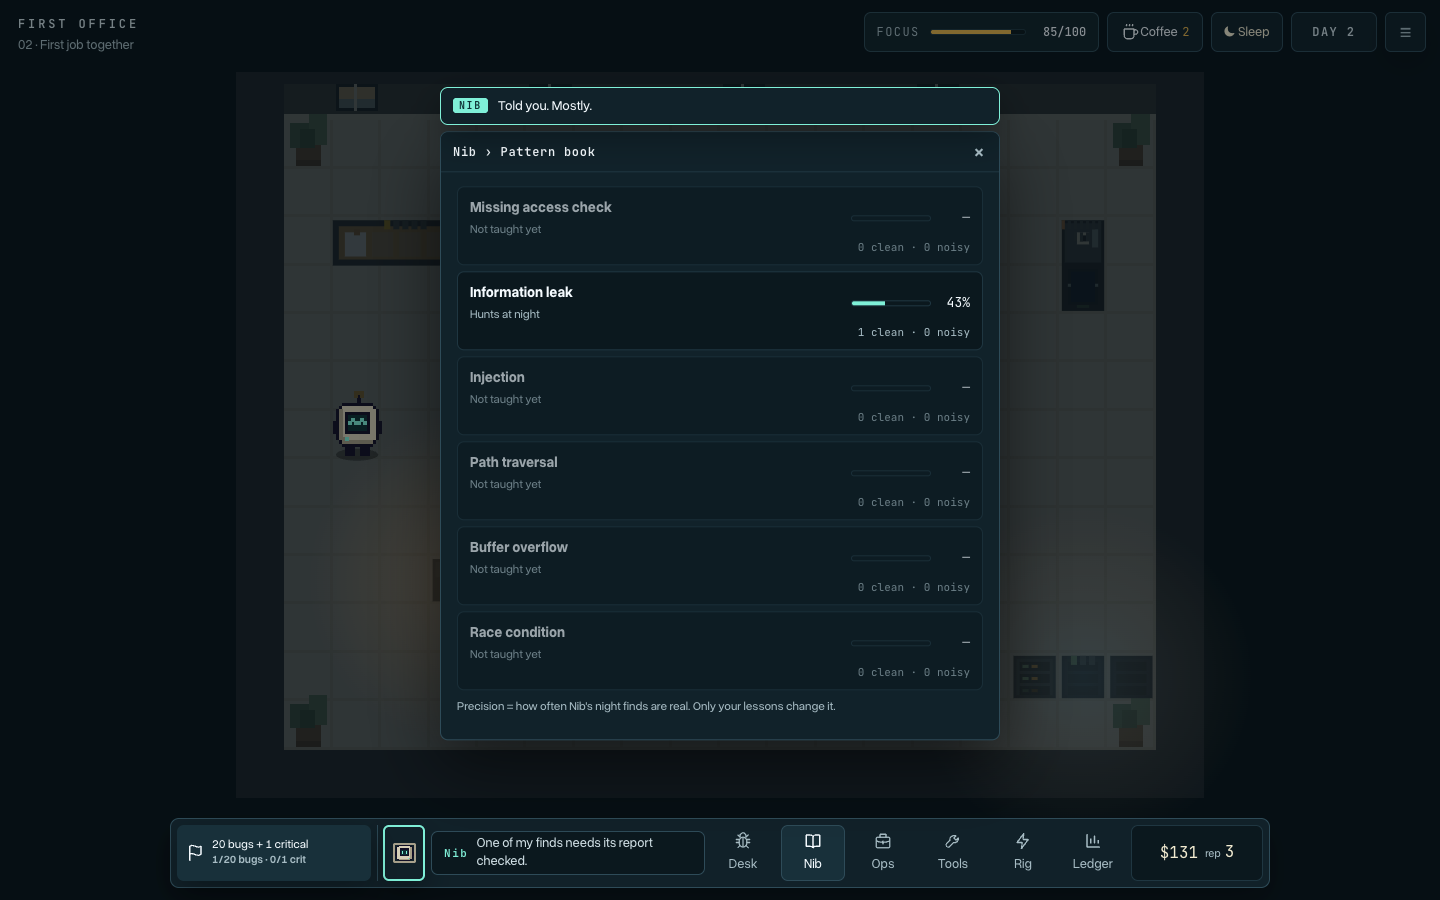
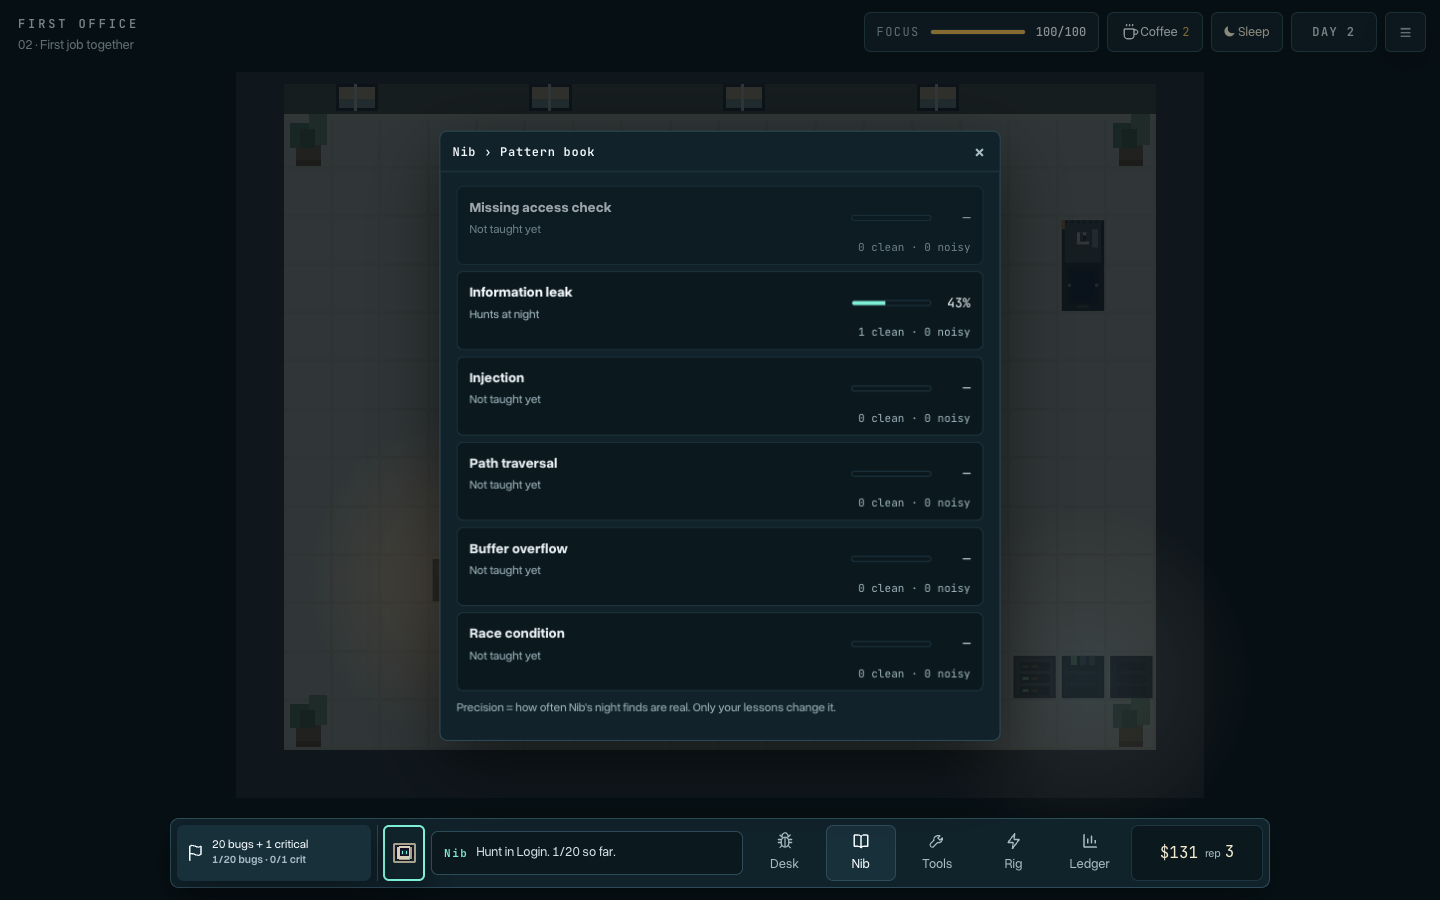
- No report writing: a found bug is filed and paid when you tell Nib why it's a bug (S sharp/mastered, B shallow, A proven Nib finds, B/C as-is) - Leftover drafts are filed with one click on the Ops desk; agents still write reports section by section - Tests, pacing and README updated for the new fl

diff --git a/game.js b/game.js
@@ -87,19 +87,23 @@
   let flash = null;
   function flashLine(text, ms) { flash = { text, until: Date.now() + ms }; render(); setTimeout(render, ms + 50); }
 
+  // Drafts nobody is working on: an agent gave up on them, or they come from an old save. One click files them.
+  function leftoverDrafts() {
+    const busy = new Set((window.Stage3Agents ? window.Stage3Agents.list() : []).filter(a => window.Stage3Agents.live(a)).flatMap(a => a.task?.drafts || []));
+    return Object.keys(s.found).filter(fid => s.found[fid].status === 'draft' && s.pendingTeach !== fid && !busy.has(fid));
+  }
+
   // ---------- objective: always one clear next step ----------
   function objective() {
     if (stage3()) return objective3();
     if (s.won) return 'Job done, ' + s.player + '. Chapter 3 is ready when you are: click the goal.';
     if (!s.target) return 'Walk to your desk and press E. Our first job is on the computer.';
     if (s.pendingTeach) return 'Tell me why that was a bug.';
-    const drafts = Object.keys(s.found).filter(fid => s.found[fid].status === 'draft');
-    const draft = drafts.find(fid => F[fid].target === s.target) || drafts[0];
-    if (draft && s.found[draft].source === 'manual') return F[draft].target === s.target ? 'Finish the report at your desk.' : 'A report on ' + T[F[draft].target].name + ' is unfinished. It\'s on the Ops desk.';
+    const drafts = leftoverDrafts(), draft = drafts[0];
     if (Object.keys(T).some(tid => E.chainState(s, tid).ready)) return 'Both halves of a chain are in. Trace it at HQ.';
     if (s.tray.length >= D.COST.tray) return 'The Ops desk is full, so I can\'t work tonight. Clear some finds.';
     if (s.tray.length) return 'I left ' + s.tray.length + ' find' + (s.tray.length > 1 ? 's' : '') + ' on the Ops desk.';
-    if (draft) return 'One of my finds needs its report checked.';
+    if (draft) return 'A find is waiting to be filed on the Ops desk.';
     if (s.focus < E.maxFocus(s) * 0.1) return s.cups ? 'You\'re fading. Coffee, or sleep and I\'ll take the night shift.' : 'Out of focus. Sleep. I\'ll keep working.';
     const tid = s.target, t = T[tid];
     const open = s.lit[tid].flatMap(rid => E.roomFindings(tid, rid)).filter(fid => E.slotState(s, fid) === 'open');
@@ -281,7 +285,7 @@
     body.innerHTML = html;
     stampFx(body);
     $('panel-title').textContent = crumbs();
-    $('panel-dialog').classList.toggle('roomy', ui.win === 'hunt' && (ui.view === 'hunt' || ui.view === 'report' || ui.view === 'map'));
+    $('panel-dialog').classList.toggle('roomy', ui.win === 'hunt' && (ui.view === 'hunt' || ui.view === 'map'));
     body.scrollTop = top ? 0 : y;
     render();
   }
@@ -420,8 +424,7 @@
       else {
         const f = ui.fid && F[ui.fid], t = f ? T[f.target] : T[s.target];
         c.push(t.name);
-        if (ui.view === 'report' && f) c.push('Report');
-        else if (ui.view === 'hunt' && f) c.push(t.rooms.find(r => r[0] === f.room)[1], 'Hunt');
+        if (ui.view === 'hunt' && f) c.push(t.rooms.find(r => r[0] === f.room)[1], 'Hunt');
         else if (ui.room) { const r = t.rooms.find(x => x[0] === ui.room); if (r) c.push(r[1]); }
       }
     } else c.push({ training: 'Pattern book', contract: 'Nib\'s finds', forge: 'Shop', rig: 'GPU rig', stats: s.rep + ' rep · ' + E.tier(s).name, hq: 'Criticals' }[ui.win]);
@@ -431,7 +434,6 @@
   // Desk: board → map → hunt → report.
   function deskView() {
     if (ui.view === 'hunt' && ui.fid && (E.slotState(s, ui.fid) === 'open' || ui.hit != null)) return huntView();
-    if (ui.view === 'report' && ui.fid && s.found[ui.fid]) return reportView();
     if (ui.view === 'board' || !s.target) return boardView();
     return mapView();
   }
@@ -470,7 +472,7 @@
       const right = st === 'open' ? `<button data-act="hunt" data-id="${fid}" class="accent">Hunt</button>`
         : st === 'locked' ? `<span class="tag">needs ${esc(D.TOOLS.find(x => x.id === cls.tool).name)}</span>`
         : st === 'tray' ? `<button data-act="go" data-id="contract">On Ops desk</button>`
-        : st === 'draft' ? `<button data-act="report" data-id="${fid}">Finish report</button>`
+        : st === 'draft' ? (leftoverDrafts().includes(fid) ? `<button data-act="file" data-id="${fid}">File</button>` : '<span class="tag">being filed</span>')
         : `<span class="tag good">${found.crit ? 'CRITICAL · ' : ''}${found.grade} · ${money(found.pay)}</span>`;
       return `<li class="slot ${st}"><span class="dot ${st}"></span><div><b>${st === 'open' || st === 'locked' ? 'Something off' : esc(cls.name)}</b><small>${st === 'open' ? 'about ' + money(t.base * cls.mult * E.crowd(s, tid)) : st === 'locked' ? esc(cls.name) : st === 'tray' ? 'Nib thinks it\'s ' + esc(cls.name.toLowerCase()) : found && found.source === 'nib' ? 'found by Nib' : found && found.source === 'agent' ? 'found by ' + esc(found.by) : 'found by you'}</small></div>${right}</li>`;
     }).join('');
@@ -500,27 +502,7 @@
     const order = [0, 1, 2]; for (let i = 2; i > 0; i--) { h = (h * 1103515245 + 12345) >>> 0; const j = h % (i + 1); [order[i], order[j]] = [order[j], order[i]]; }
     return order;
   }
-  function reportView() {
-    const fid = ui.fid, f = F[fid], r = s.found[fid], cls = C[f.cls], t = T[f.target];
-    const text = (sec, i) => sec === 'proof' ? D.PROOF[i] : D.fill(cls.report[sec][i], f.nouns);
-    const secs = D.SECTIONS.map(x => {
-      const pick = r.report[x.id], locked = x.id === 'proof' && r.source === 'nib' && !r.proven;
-      const opts = shuffledOptions(fid, x.id).map(i => `<button class="opt ${pick === i ? 'on' : ''}" data-act="pick" data-sec="${x.id}" data-id="${i}" ${locked && i === 0 ? 'disabled title="Never proven"' : ''}>${esc(text(x.id, i))}</button>`).join('');
-      const weak = r.drafted && pick !== undefined && pick !== 0 && r.status !== 'accepted';
-      const react = pick !== undefined ? `<p class="triage t${pick}"><b>Triager:</b> ${esc(D.TRIAGE[x.id][pick])}</p>` : '';
-      return `<section class="sec ${weak ? 'weak' : ''}"><h4>${x.name}${weak ? ' <span class="tag">Nib wasn\'t sure</span>' : ''}</h4><div class="opts">${opts}</div>${react}</section>`;
-    }).join('');
-    const done = r.status === 'accepted';
-    const paper = D.SECTIONS.map(x => r.report[x.id] !== undefined ? `<p><b>${x.name}:</b> ${esc(text(x.id, r.report[x.id]))}</p>` : `<p class="blank"><b>${x.name}:</b> …</p>`).join('');
-    const res = ui.result && ui.result.fid === fid ? ui.result : null;
-    const stamp = done ? `<div class="stamp ${r.crit ? 'crit' : ''}"><b>${r.crit ? 'CRITICAL' : 'ACCEPTED'}</b><span>${r.grade} · ${money(r.pay)}</span></div>` : '';
-    const verdict = !done && r.verdict ? `<div class="feedback miss"><b>Sent back.</b> ${esc(r.verdict.replace(/^Rejected: /, '').replace(/^./, c => c.toUpperCase()))} Change a section and resubmit.</div>` : '';
-    const by = r.source === 'agent' ? 'Found by ' + esc(r.by) : r.source === 'nib' ? (r.proven ? 'Nib\'s draft · proven' : 'Nib\'s draft · unproven') : r.drafted ? 'Nib drafted it · check weak sections' : '';
-    return `<div class="win-head"><h2>${esc(cls.name)}</h2>${by ? `<span class="fine">${by}</span>` : ''}${done ? '<button data-act="to-map" class="quiet small">← Map</button>' : ''}</div>
-      ${done ? `<div class="paper">${stamp}${paper}</div>` : secs}
-      ${verdict}
-      ${done ? (res && res.won ? '' : `<button data-act="to-map" class="accent wide">Back to the map</button>`) : `<button data-act="submit" class="accent wide" ${D.SECTIONS.every(x => r.report[x.id] !== undefined) ? '' : 'disabled'}>Submit to ${esc(t.name)}</button>`}`;
-  }
+
 
   function nibView() {
     const rows = Object.keys(C).map(k => {
@@ -539,10 +521,10 @@
       return `<li class="cand"><div><b>${esc(C[f.cls].name)}</b><small>${esc(t.name)} · ${esc(room)}</small><span class="conf"><span class="meter"><i style="width:${c.conf}%"></i></span>${c.conf}% sure</span></div>
         <div class="cand-acts"><button data-act="prove" data-id="${c.id}" class="accent" ${s.focus < D.COST.prove ? 'disabled' : ''}>Prove <small>−${D.COST.prove}</small></button><button data-act="raw" data-id="${c.id}">As-is</button><button data-act="toss" data-id="${c.id}" class="quiet">Toss</button></div></li>`;
     }).join('');
-    const drafts = Object.keys(s.found).filter(fid => s.found[fid].status === 'draft' && (s.found[fid].source === 'nib' || F[fid].target !== s.target) && s.pendingTeach !== fid).map(fid => `<li class="cand"><div><b>${esc(C[F[fid].cls].name)}</b><small>${esc(T[F[fid].target].name)} · ${s.found[fid].source === 'manual' ? 'your unfinished report' : s.found[fid].proven ? 'proven' : 'sent back'}</small></div><button data-act="report" data-id="${fid}" class="accent">Review report</button></li>`).join('');
+    const drafts = leftoverDrafts().map(fid => `<li class="cand"><div><b>${esc(C[F[fid].cls].name)}</b><small>${esc(T[F[fid].target].name)}</small></div><button data-act="file" data-id="${fid}" class="accent">File</button></li>`).join('');
     const res = ui.result && ui.result.ops ? `<div class="feedback ${ui.result.good ? 'hit' : 'miss'}">${ui.result.html}</div>` : '';
     return `${res}${cands ? `<p class="fine">Prove: safe, +25% pay. As-is: free, −3 rep if it's wrong.</p><ul class="cands">${cands}</ul>` : '<p class="empty">Nothing yet. Nib works while you sleep.</p>'}
-      ${drafts ? `<h3>Reports</h3><ul class="cands">${drafts}</ul>` : ''}`;
+      ${drafts ? `<h3>To file</h3><ul class="cands">${drafts}</ul>` : ''}`;
   }
   function toolsView() {
     const tools = D.TOOLS.filter(t => t.cost).map(t => {
@@ -598,9 +580,7 @@
       room: () => { ui.room = id; drawWindow(); },
       hunt: () => { ui.view = 'hunt'; ui.fid = id; ui.hit = null; ui.miss = null; drawWindow(true); },
       line: () => guessLine(+id),
-      report: () => { ui.win = 'hunt'; $('panel-title').textContent = ST.hunt.title; ui.view = 'report'; ui.fid = id; drawWindow(true); },
-      pick: () => { const r = E.setSection(s, ui.fid, b.dataset.sec, +id); if (!r.ok && r.why) toast(r.why, 'bad'); drawWindow(); },
-      submit: () => submitReport(ui.fid),
+      file: () => fileReport(id),
       go: () => openStation(id),
       prove: () => prove(+id), raw: () => raw(+id), toss: () => { E.toss(s, +id); ui.result = null; drawWindow(); },
       tool: () => buyTool(id),
@@ -624,7 +604,7 @@
     if (!r.ok) { toast(r.why, 'bad'); return; }
     if (!r.hit) { const m = ui.miss || { lines: [] }; m.lines.push(i); m.last = i; m.why = r.why; ui.miss = m; noteFocus(); drawWindow(); if (m.lines.length === 2) nibSay(C[F[ui.fid].cls].hint, { ms: 4200 }); return; }
     ui.hit = i; ui.miss = null; noteFocus(); s.seen.rest = s.seen.rest || s.stats.manual >= 1; drawWindow();
-    if (r.mastered) { nibSay('I know this one cold. I drafted the report.', { mood: 'happy', ms: 2600 }); await wait(900); ui.view = 'report'; ui.hit = null; drawWindow(true); return; }
+    if (r.mastered) { nibSay('I know this one cold. Filed it.', { mood: 'happy', ms: 2600 }); paid(r.paid, 'hunt'); await wait(900); ui.view = 'map'; ui.hit = null; ui.fid = null; drawWindow(true); return; }
     await teachMoment(ui.fid, r.first);
   }
   async function teachMoment(fid, first) {
@@ -639,27 +619,25 @@
       const r = E.teach(s, v);
       if (!r.learned) { ask = 'Hm. I don\'t think that\'s it. Look again?'; nib.setMood('sad'); continue; }
       ui.busy = false;
-      if (r.drafted) nibSay((r.clean ? 'Sharper: ' : 'Hm: ') + pct(r.before) + ' → ' + pct(r.after) + '. I know enough to draft the report now. Fix anything weak.', { mood: r.clean ? 'happy' : 'think', ms: 4200 });
-      else if (r.clean) nibSay(r.firstOfClass ? 'That makes sense. I\'ll hunt ' + cls.name.toLowerCase() + 's at night now. ' + pct(r.after) + ' sure of myself.' : 'Sharper. ' + pct(r.before) + ' → ' + pct(r.after) + ' on ' + cls.name.toLowerCase() + 's.', { mood: 'happy', ms: 3800 });
+      if (r.clean) nibSay(r.firstOfClass ? 'That makes sense. I\'ll hunt ' + cls.name.toLowerCase() + 's at night now. ' + pct(r.after) + ' sure of myself.' : 'Sharper. ' + pct(r.before) + ' → ' + pct(r.after) + ' on ' + cls.name.toLowerCase() + 's.', { mood: 'happy', ms: 3800 });
       else nibSay('OK, I\'ll remember that. ' + (r.after < r.before ? 'Though I feel less sure: ' + pct(r.before) + ' → ' + pct(r.after) + '.' : 'Feels thin, but it\'s a start: ' + pct(r.after) + '.'), { mood: 'think', ms: 4200 });
       if (first) { world.pulseAt('training'); toast('New: Nib has a desk and a pattern book.', 'good'); }
+      paid(r.paid, 'hunt'); // your explanation is the report: it's filed and paid now
       break;
     }
     nibWalk(nibHome());
-    ui.view = 'report'; ui.hit = null; if (ui.win !== 'hunt') openStation('hunt'); drawWindow(true);
+    ui.view = 'map'; ui.hit = null; ui.fid = null; if (ui.win !== 'hunt') openStation('hunt'); drawWindow(true);
   }
-  function submitReport(fid) {
-    const r = E.submit(s, fid);
+  function fileReport(fid) {
+    const r = E.fileDraft(s, fid);
     if (!r.ok) return toast(r.why, 'bad');
-    ui.result = Object.assign({ fid }, r);
-    if (!r.accepted) { if (r.over && r.repDelta) { toast('−2 reputation for overclaiming.', 'bad'); } drawWindow(); return; }
-    paid(r, 'hunt');
+    paid(r, ui.win === 'contract' ? 'contract' : 'hunt');
     drawWindow();
   }
   function paid(r, station) {
     if (!payChip(r, station)) floatAt('+' + money(r.pay), station);
     if (r.crit) { toast('CRITICAL! That one was much worse than it looked.', 'crit'); nibSay('Wait. That one\'s critical. ' + s.player + ', that\'s the one we needed.', { mood: 'happy', ms: 4200 }); }
-    else toast(r.grade + ' report · +' + money(r.pay) + ' · +' + r.rep + ' rep', 'good');
+    else toast(r.grade + ' · +' + money(r.pay) + ' · +' + r.rep + ' rep', 'good');
     if (r.tierUp) toast('Reputation: ' + r.tierUp.name + '. ' + r.tierUp.perk, 'good');
     if (r.firsts && r.firsts.forge) { world.pulseAt('forge'); world.pulseAt('stats'); nibSay('Our first bounty. There\'s a tool shelf now: tools open new kinds of bugs. The ledger tracks our reputation.', { ms: 5600, mood: 'happy' }); }
     if (r.firsts && r.firsts.hq) { world.pulseAt('hq'); nibSay('About one bug in twenty turns out critical. Or we make one: two bugs in connected rooms. HQ has the board.', { ms: 5600 }); }
@@ -668,7 +646,7 @@
   }
   function prove(id) {
     const c = s.tray.find(x => x.id === id), r = E.prove(s, id); if (!r.ok) return toast(r.why, 'bad');
-    if (r.real) { ui.result = { ops: true, good: true, html: `<b>Real.</b> ${esc(C[F[c.fid].cls].name)} confirmed. Nib drafted the report. <button data-act="report" data-id="${r.fid}" class="accent small">Review report</button>` }; nibSay('Told you. Mostly.', { mood: 'happy', ms: 2000 }); }
+    if (r.real) { ui.result = { ops: true, good: true, html: `<b>Real.</b> ${esc(C[F[c.fid].cls].name)} · ${r.paid.grade} · ${money(r.paid.pay)}` }; nibSay('Told you. Mostly.', { mood: 'happy', ms: 2000 }); paid(r.paid, 'contract'); }
     else { ui.result = { ops: true, good: false, html: '<b>False alarm.</b> The proof didn\'t hold up. No harm done.' }; nibSay('Sorry. I saw a pattern that wasn\'t there.', { mood: 'sad', ms: 2600 }); }
     drawWindow();
   }
@@ -676,8 +654,7 @@
     const c = s.tray.find(x => x.id === id), r = E.submitRaw(s, id); if (!r.ok) return toast(r.why, 'bad');
     const name = esc(C[F[c.fid].cls].name);
     if (!r.real) { ui.result = { ops: true, good: false, html: `<b>Rejected: not a bug.</b> ${name} was a false alarm. −3 reputation.` }; nib.setMood('sad'); nibSay('That one\'s on me. Maybe prove the shaky ones.', { mood: 'sad', ms: 3000 }); }
-    else if (r.accepted) { ui.result = { ops: true, good: true, html: `<b>Accepted.</b> ${name} paid ${money(r.pay)} on Nib's draft (${r.grade}).` }; paid(r, 'contract'); }
-    else ui.result = { ops: true, good: false, html: `<b>Sent back.</b> It's real, but Nib's draft was too vague. <button data-act="report" data-id="${r.fid}" class="small">Fix the report</button>` };
+    else { ui.result = { ops: true, good: true, html: `<b>Accepted.</b> ${name} · ${r.grade} · ${money(r.pay)}` }; paid(r, 'contract'); }
     drawWindow();
   }
   function buyTool(id) {
@@ -854,7 +831,7 @@
   } else if (s.pendingTeach) {
     // Reloaded mid-lesson: pick the question back up at the desk.
     const fid = s.pendingTeach;
-    ui.fid = fid; ui.view = 'report';
+    ui.fid = fid; ui.view = 'map';
     setTimeout(() => teachMoment(fid, false), 600);
   } else if (stage3() && !s.seen.team) {
     (async () => {

diff --git a/engine.js b/engine.js
@@ -124,8 +124,10 @@
     s.found[fid] = { status: 'draft', source: 'manual', proven: false, report: {}, verdict: null };
     // Once Nib has mastered a class there is nothing left to teach: it drafts the report instead.
     const mastered = precision(s, f.cls) >= 0.95;
-    if (mastered) draftFor(s, fid); else s.pendingTeach = fid;
-    return { ok: true, hit: true, mastered, why: D.fill(L.bad, f.nouns), first: reveal(s, 'training') };
+    const first = reveal(s, 'training');
+    if (mastered) return { ok: true, hit: true, mastered, why: D.fill(L.bad, f.nouns), first, paid: fileFound(s, fid, 'S') };
+    s.pendingTeach = fid;
+    return { ok: true, hit: true, mastered, why: D.fill(L.bad, f.nouns), first };
   }
   function teach(s, choice) {
     const fid = s.pendingTeach; if (!fid) return { ok: false, why: 'Nothing to teach right now.' };
@@ -133,8 +135,9 @@
     if (choice === 'wrong') return { ok: true, learned: false };
     if (choice === 'sharp') s.lessons[cls].clean++; else if (choice === 'shallow') s.lessons[cls].noisy++; else return { ok: false, why: 'Pick an answer.' };
     s.pendingTeach = null; s.found[fid].lesson = choice;
-    const drafted = precision(s, cls) >= 0.6 && draftFor(s, fid);
-    return { ok: true, learned: true, clean: choice === 'sharp', before, after: precision(s, cls), firstOfClass: before === 0, drafted };
+    // No report to write: how well you explained the bug is how well it's reported.
+    const paid = fileFound(s, fid, choice === 'sharp' ? 'S' : 'B');
+    return { ok: true, learned: true, clean: choice === 'sharp', before, after: precision(s, cls), firstOfClass: before === 0, paid };
   }
   function setSection(s, fid, sec, idx) {
     const r = s.found[fid];
@@ -176,6 +179,11 @@
     const firsts = { stats: reveal(s, 'stats'), forge: reveal(s, 'forge'), hq: s.bugs >= 3 ? reveal(s, 'hq') : false };
     return { ok: true, accepted: true, grade, pay, crit, rep, tierUp, firsts, won: checkWin(s) };
   }
+  // Files a found bug at a grade, without the player writing anything. Agents still write reports section by section.
+  function fullReport(grade) { const good = { S: 5, A: 4, B: 3, C: 2 }[grade], rep = {}; SECTIONS.forEach((x, i) => { rep[x.id] = i < good ? 0 : 1; }); return rep; }
+  function fileFound(s, fid, grade) { const r = s.found[fid]; r.report = fullReport(grade); return accept(s, fid, grade); }
+  // A leftover draft (an agent gave up on it, or an old save): filing it is one click, at a plain grade.
+  function fileDraft(s, fid) { const r = s.found[fid]; if (!r || r.status !== 'draft' || s.pendingTeach === fid) return { ok: false, why: 'Nothing to file.' }; return fileFound(s, fid, r.proven ? 'A' : 'B'); }
   function checkWin(s) { if (!s.won && s.bugs >= GOAL.bugs && s.crits >= GOAL.crits) { s.won = true; s.wonDay = s.day; return true; } return false; }
 
   function coffee(s) {
@@ -226,8 +234,6 @@
     SECTIONS.forEach(x => { rep[x.id] = x.id === 'proof' ? (proven ? 0 : 1) : rand(s) < p ? 0 : 1; });
     return rep;
   }
-  // Nib pre-fills a hand-found report once it knows the class well; you found it, so the proof is yours.
-  function draftFor(s, fid) { const r = s.found[fid]; r.report = nibDraft(s, fid, true); r.drafted = true; return true; }
   const cand = (s, id) => s.tray.find(c => c.id === id);
   function drop(s, id) { s.tray = s.tray.filter(c => c.id !== id); }
   function prove(s, id) {
@@ -235,15 +241,16 @@
     if (s.focus < COST.prove) return { ok: false, why: 'Proving takes 15 focus. Coffee or sleep.' };
     s.focus -= COST.prove; drop(s, id); s.stats.proven++;
     if (!c.real) { log(s, 'Proof showed a false alarm. No harm done.', ''); return { ok: true, real: false }; }
-    s.found[c.fid] = { status: 'draft', source: 'nib', proven: true, report: nibDraft(s, c.fid, true), verdict: null, drafted: true };
-    return { ok: true, real: true, fid: c.fid };
+    s.found[c.fid] = { status: 'draft', source: 'nib', proven: true, report: {}, verdict: null };
+    return { ok: true, real: true, fid: c.fid, paid: fileFound(s, c.fid, 'A') };
   }
   function submitRaw(s, id) {
     const c = cand(s, id); if (!c) return { ok: false, why: 'Gone.' };
     drop(s, id); s.stats.raw++;
     if (!c.real) { s.stats.falseSubmits++; const tierUp = addRep(s, -3, 'false alarm submitted'); return { ok: true, real: false, repDelta: -3, tierUp }; }
-    s.found[c.fid] = { status: 'draft', source: 'nib', proven: false, report: nibDraft(s, c.fid, false), verdict: null, drafted: true };
-    const res = submit(s, c.fid);
+    s.found[c.fid] = { status: 'draft', source: 'nib', proven: false, report: {}, verdict: null };
+    // Unproven: filed as Nib wrote it, so it's only as good as what you've taught.
+    const res = fileFound(s, c.fid, precision(s, FINDINGS[c.fid].cls) >= 0.7 ? 'B' : 'C');
     return Object.assign({ real: true, fid: c.fid }, res);
   }
   function toss(s, id) { if (!cand(s, id)) return { ok: false }; drop(s, id); return { ok: true }; }
@@ -287,7 +294,7 @@
   const penalize = (s, n, why) => addRep(s, -n, why);
 
   const api = { roomFilter: null, VERSION, GOAL, penalize, log, FINDINGS, targetById, create, restore, maxFocus, maxCups, tier, nextTier, precision, knows, unlocked, has, crowd, canTake, isLit, canMap, slotState, roomFindings, payout, gradeOf,
-    takeJob, mapRoom, guess, teach, setSection, submit, coffee, sleep, prove, submitRaw, toss, buyTool, setRig, toggleDesk, chainState, trace, nibDraft };
+    takeJob, mapRoom, guess, teach, setSection, submit, fileDraft, coffee, sleep, prove, submitRaw, toss, buyTool, setRig, toggleDesk, chainState, trace, nibDraft };
   if (typeof module === 'object' && module.exports) module.exports = api;
   if (root) root.Stage2Engine = api;
 })(typeof window !== 'undefined' ? window : null);

diff --git a/stage3/harness.js b/stage3/harness.js
@@ -485,7 +485,10 @@
     const f = E.FINDINGS[c.fid], name = D.CLASSES[f.cls].name, proof = rule(a, 'proof') && c.conf < 60;
     return act(proof ? 'prove' : 'submit_as_is', STATION.ops, proof ? DUR.validate + 1.5 : DUR.validate, s => proof ? E.prove(s, c.id) : E.submitRaw(s, c.id), r => {
       if (!r.ok) return bad(a, r.why || 'Gone.');
-      if (proof) { if (r.real) { t.drafts.push(r.fid); tool(a, `Proved it: the ${name} is real.`); } else tool(a, 'Proof showed a false alarm. Closed safely, no penalty.'); return; }
+      if (proof) {
+        if (!r.real) return tool(a, 'Proof showed a false alarm. Closed safely, no penalty.');
+        push(a, 'win', `${name} · proven · ${r.paid.grade} · ${money(r.paid.pay)}`); return paid(a, r.paid, STATION.ops); // proven finds file themselves
+      }
       if (!r.real) return penaltyLine(a, C.penalize(S(), a.name, 'False alarm', `Submitted a ${c.conf}% candidate as-is. It wasn't real. −3 rep.`, 3, null, true));
       if (r.accepted) { push(a, 'win', `${name} · as-is · ${r.grade} · ${money(r.pay)}`); return paid(a, r, STATION.ops); }
       t.drafts.push(r.fid); tool(a, 'Real, but Nib\'s draft was too vague. Rewriting it.');

diff --git a/README.md b/README.md
@@ -81,6 +81,16 @@ NODE_PATH=<dir with playwright> node outputs/first-office/tests/stage3-play.cjs 
 
 Verified 2026-10-25: all five pass. Gemma was also checked live in Stage 3: it parsed briefs, sanitize and auto-pick worked, and spend approval asked first. Live Gemma replies sometimes get numbers slightly wrong in chat. Game numbers come from code, never from the model.
 
+## No report writing (2026-10-26)
+
+You no longer write reports. A bug you find is filed and paid the moment you tell Nib why it's a bug:
+- **Sharp explanation, or a class Nib has mastered:** S grade.
+- **Shallow explanation:** B.
+- **Nib's finds you prove:** A, plus the 25% proof bonus.
+- **Nib's finds submitted as-is:** B, or C if Nib's precision is under 70%.
+
+A leftover draft, for example one an agent gave up on, is one **File** click on the Ops desk. Agents still write their reports section by section, so AGENTS.md's honesty rule and overclaim penalties still apply to them. Balance is unchanged: `pacing.cjs` gives a median of day 6, and 40 of 40 runs win.
+
 ## Windows and popups (2026-10-25)
 
 - **Centered windows:** whatever you interact with opens in the middle of the screen, compact, over a soft scrim. The title is one breadcrumb line of what you're on, e.g. `Desk › ChatterBox › Login › Hunt`.
@@ -92,7 +102,7 @@ Verified 2026-10-25: all five pass. Gemma was also checked live in Stage 3: it p
   - Report sections are one row of three choices, with no duplicate paper preview.
   - The Menu drops Import Stage 1.
 
-Screenshots: `evidence/popup-map.png`, `evidence/popup-report.png`.
+Screenshots: `evidence/popup-map.png`.
 
 ## Avatars (2026-10-25)
 
